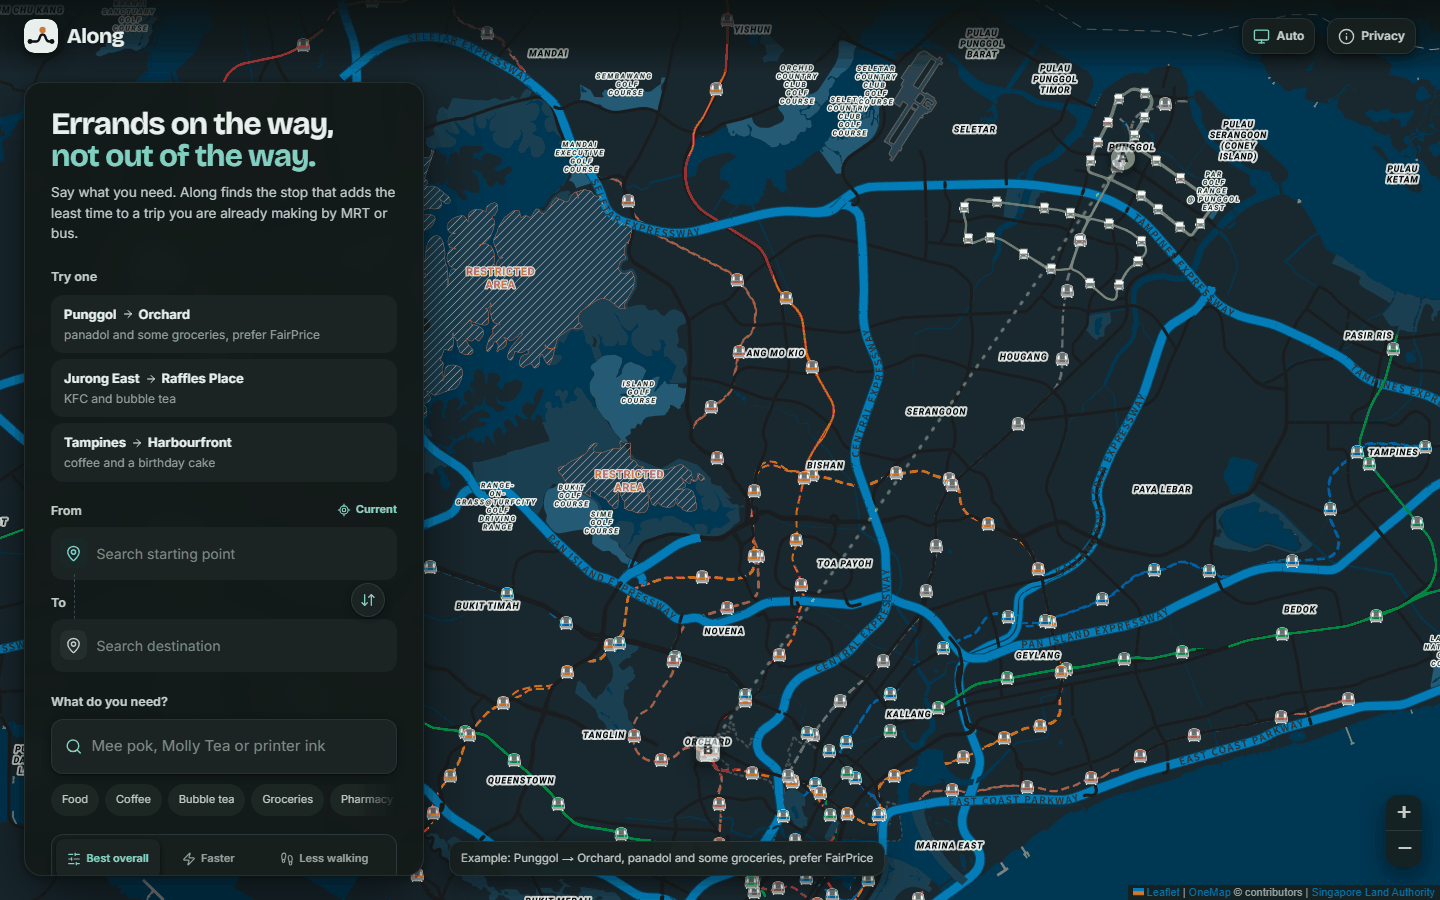
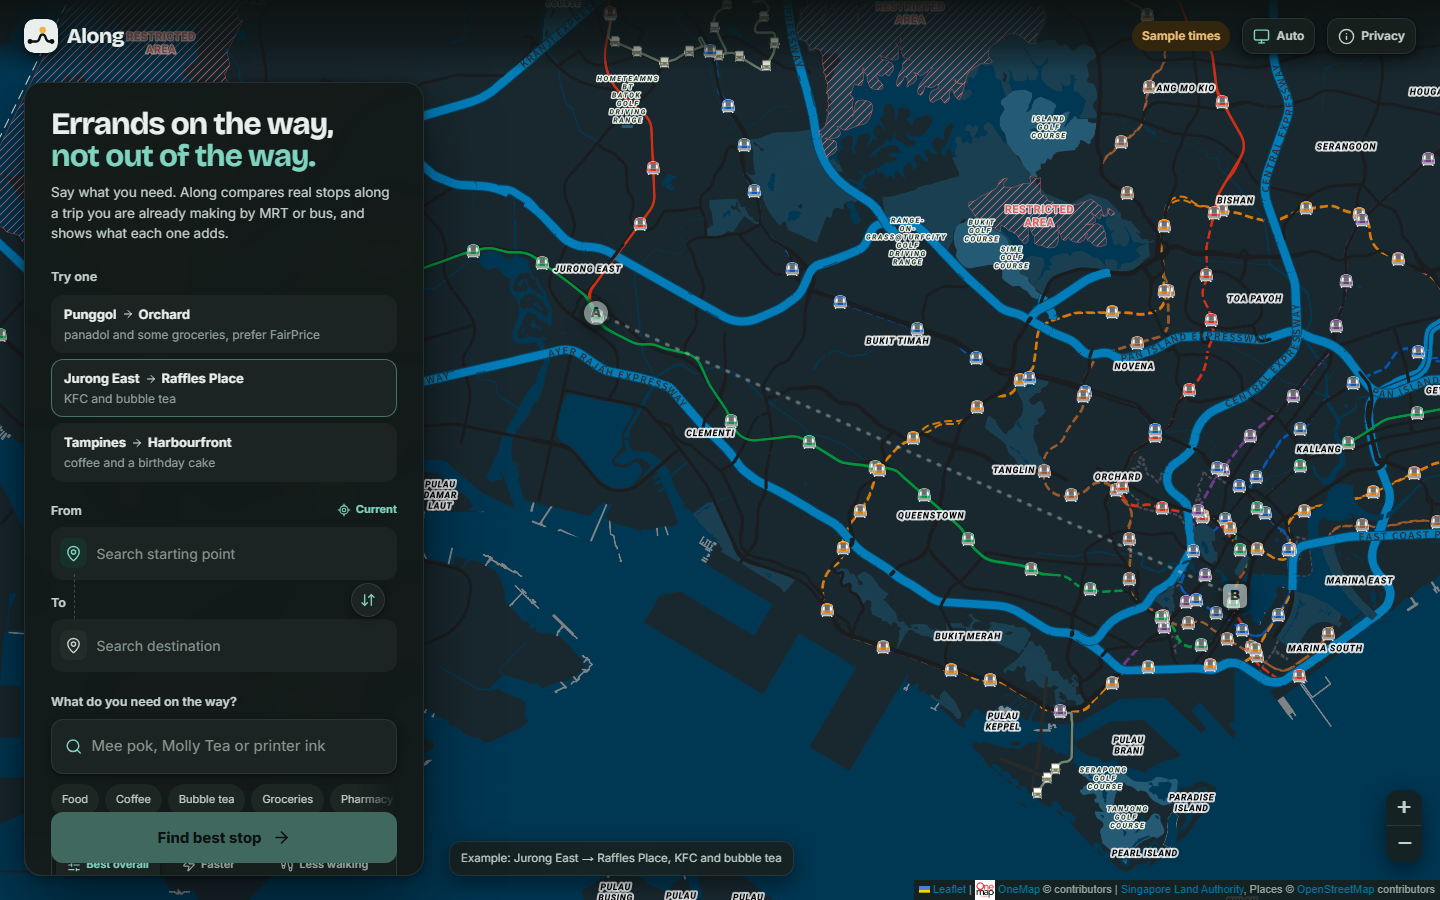
docs: retake the README's pictures from the app, and settle two rough edges they showed
- docs/images: the demo GIF and stills retaken with scripts/capture-readme.mjs
  on the full catalogue: +2 min extra travel, the honest explanation,
  "Sample times" in the bar.
- A saved example run stands in only while the server has not answered
  at all; an awake but slow server now gives the live answer instead of a
  saved one swapped out a second later.
- The sticky search button fades by colour, not opacity, so the controls
  scrolling under it no longer show through.
- CI installs WebKit for the iPhone accessibility project.

diff --git a/frontend/app/page.tsx b/frontend/app/page.tsx
@@ -111,6 +111,10 @@ export default function Home() {
   // Results already shown, by link, so Back and Forward restore a plan
   // instead of planning it again.
   const visited = useRef(new Map<string, Result>());
+  // Whether the server has answered at all. A saved run stands in only while
+  // it has not: a server that is awake but slow gives the live answer, rather
+  // than a saved one that is swapped out a second later.
+  const serverAwake = useRef(false);
 
   useEffect(() => {
     void fetch(`${API_BASE}/api/catalog/categories`)
@@ -119,7 +123,10 @@ export default function Home() {
       .catch(() => setCategories([]));
     // Also wakes a sleeping host before the first search needs it.
     void fetch(`${API_BASE}/health`)
-      .then((response) => (response.ok ? response.json() : null))
+      .then((response) => {
+        serverAwake.current = response.ok;
+        return response.ok ? response.json() : null;
+      })
       .then((body) => setSampleTimes(Boolean(body?.onemap_mock)))
       .catch(() => undefined);
   }, []);
@@ -211,13 +218,14 @@ export default function Home() {
     pendingExample.current = true;
   }
 
-  /* While a search for an example is still out, show the saved run of it
-   * after a moment, said as such. The live answer replaces it on arrival. */
+  /* While a sleeping server wakes, show the saved run of an example after a
+   * moment, said as such. The live answer replaces it on arrival. */
   function standInForExample(controller: AbortController) {
     const id = exampleRef.current;
     exampleRef.current = null;
     if (!id) return;
     window.setTimeout(async () => {
+      if (serverAwake.current) return;
       if (searchRef.current !== controller || controller.signal.aborted) return;
       try {
         const response = await fetch(`/examples/${id}.json`);

diff --git a/frontend/app/globals.css b/frontend/app/globals.css
@@ -862,8 +862,10 @@ summary:focus-visible {
   box-shadow: 0 5px 14px color-mix(in srgb, var(--green) 17%, transparent);
   transform: translateY(1px);
 }
+/* Faded by colour, not opacity: the button is sticky, and a see-through one
+ * showed the controls scrolling underneath it. */
 .find-button:disabled {
-  opacity: 0.43;
+  background: color-mix(in srgb, var(--green) 42%, var(--surface));
   cursor: not-allowed;
   box-shadow: none;
 }
